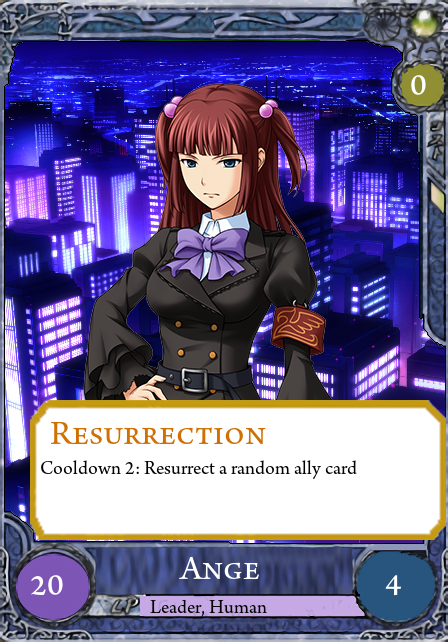
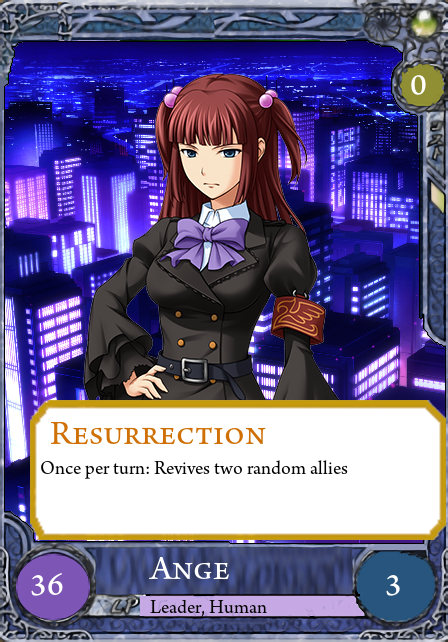
Ange finished

diff --git a/Assets/Scripts/CardEffects.cs b/Assets/Scripts/CardEffects.cs
@@ -3,7 +3,9 @@ using System.Collections;
 using System.Collections.Generic;
 using UnityEngine;
 using UnityEngine.UI;
+using System.Linq;
 using static Deck;
+using Random = System.Random;
 
 public class CardEffects
 {
@@ -170,7 +172,11 @@ public class CardEffects
 
     internal static bool LuciferEffect(Card c)
     {
-        List<CardObject> stakes = Game.INSTANCE.FindCardsInGameByTag(Deck.TagType.Stake);
+        List<CardObject> stakes = Game.INSTANCE.FindCardsInGameByTag(Deck.TagType.Stake, c.GetUsedByPlayer());
+        if(stakes.Count == 1)
+        {
+            return false;
+        }
         CardObject lucifer = c.GetTargetCardObject();
         Game.INSTANCE.AddCounter(lucifer, (stakes.Count-1)*2);
         return true;
@@ -207,6 +213,43 @@ public class CardEffects
     {
         Game.INSTANCE.CreateShield(c.GetTargetCardObject().GameObject);
         return true;
+    }
+
+    internal static bool AngeEffect(Card c)
+    {
+        GameObject graveyard = null;
+        if (c.GetUsedByPlayer())
+        {
+            graveyard = Game.INSTANCE.PlayerGraveyard;
+        }
+        else
+        {
+            graveyard = Game.INSTANCE.EnemyGraveyard;
+        }
+        if(graveyard.transform.childCount < 1)
+        {
+            return false;
+        }
+        GameObject freeSlot = Game.INSTANCE.FindFreeSlot(!c.GetUsedByPlayer());
+        if (freeSlot != null)
+        {
+            Game.INSTANCE.ResurrectRandomCard(graveyard, freeSlot);
+            if (graveyard.transform.childCount < 1)
+            {
+                return false;
+            }
+            GameObject freeSlot2 = Game.INSTANCE.FindFreeSlot(!c.GetUsedByPlayer());
+            if(freeSlot2 == null)
+            {
+                return false;
+            }
+            Game.INSTANCE.ResurrectRandomCard(graveyard, freeSlot2);
+            return true;
+        }
+        else
+        {
+            return false;
+        }
     }
 
     internal static bool GohdaEffect(Card arg)
@@ -268,14 +311,52 @@ public class CardEffects
         return true;
     }
 
-    internal static bool SakutarouEffect(Card arg)
+    internal static bool SakutarouEffect(Card c)
     {
-        throw new NotImplementedException();
+        GameObject field = null;
+        if (c.GetUsedByPlayer())
+        {
+            field = Game.INSTANCE.PlayerField;
+        }
+        else
+        {
+            field = Game.INSTANCE.EnemyField;
+        }
+        foreach (CardObject co in Game.INSTANCE.CardObjectsInGame)
+        {
+            if (co.card.Tags.Contains(TagType.Stake) && field.name == co.GameObject.transform.parent.parent.name)
+            {
+                Game.INSTANCE.AddCounter(co, 3);
+            }
+        }
+        return true;
     }
 
-    internal static bool MariaEffect(Card arg)
+    internal static bool MariaEffect(Card c)
     {
-        throw new NotImplementedException();
+        GameObject field = null;
+        if (c.GetUsedByPlayer())
+        {
+            field = Game.INSTANCE.PlayerField;
+        }
+        else
+        {
+            field = Game.INSTANCE.EnemyField;
+        }
+        CardObject sakutarouCO = null;
+        foreach(CardObject co in Game.INSTANCE.CardObjectsInGame)
+        {
+            if(co.card.ImageName == "Sakutarou" && field.name == co.GameObject.transform.parent.parent.name)
+            {
+                sakutarouCO = co;
+            }
+        }
+        if(sakutarouCO == null)
+        {
+            return false;
+        }
+        sakutarouCO.counters *= 2;
+        return true;
     }
 
     internal static bool DianaEffect(Card c)

diff --git a/Assets/Scripts/Game.cs b/Assets/Scripts/Game.cs
@@ -5,6 +5,7 @@ using System.Linq;
 using TMPro;
 using UnityEngine;
 using UnityEngine.UI;
+using Random = System.Random;
 
 public class Game : MonoBehaviour
 {
@@ -59,7 +60,7 @@ public class Game : MonoBehaviour
         EndTurnbtn.onClick.AddListener(OnEndTurn);
         UndoBtn.onClick.AddListener(Undo);
         EnemyLeader = enemyLeaderName;
-        PlayerLeader = "Lambda";
+        PlayerLeader = "Beatrice";
         PlayerDeck = CreateDeck(PlayerLeader);
         DecksInGame.Add(PlayerDeck);
         CardObject leaderCardObject = CreateCardInSlot(PlayerLeader, CardSlot21);
@@ -238,6 +239,31 @@ public class Game : MonoBehaviour
         GameObject.DestroyImmediate(shield);
     }
 
+    internal void ResurrectCard(GameObject resurrectedOne, GameObject freeSlot)
+    {
+        resurrectedOne.transform.SetParent(freeSlot.transform, false);
+        Image cardImage = resurrectedOne.GetComponent<Image>();
+        Card card = FindCard(cardImage.sprite.name);
+        CardObject resurrectedCO = new CardObject(resurrectedOne, card);
+        CardObjectsInGame.Add(resurrectedCO);
+        UpdateAllStatBoxes();
+        RecalculateCosts();
+    }
+
+    public void ResurrectRandomCard(GameObject graveyard, GameObject freeSlot)
+    {
+        List<GameObject> graveyardItems = new List<GameObject>();
+        for (int i = 0; i < graveyard.transform.childCount; i++)
+        {
+            GameObject child = graveyard.transform.GetChild(i).gameObject;
+            graveyardItems.Add(child);
+        }
+        Random rng = new Random();
+        graveyardItems.OrderBy(a => rng.Next());
+        GameObject resurrectedOne = graveyardItems[0];
+        Game.INSTANCE.ResurrectCard(resurrectedOne, freeSlot);
+    }
+
     public bool HasShield(GameObject go)
     {
         GameObject shield = null;
@@ -307,12 +333,21 @@ public class Game : MonoBehaviour
         Debug.Log("Get rekt m8");
     }
 
-    internal List<CardObject> FindCardsInGameByTag(Deck.TagType stake)
+    internal List<CardObject> FindCardsInGameByTag(Deck.TagType stake, bool playerCards)
     {
+        GameObject field = null;
+        if (playerCards)
+        {
+            field = PlayerField;
+        }
+        else
+        {
+            field = EnemyField;
+        }
         List<CardObject> ret = new List<CardObject>();
         foreach(CardObject co in CardObjectsInGame)
         {
-            if (co.card.Tags.Contains(stake))
+            if (co.card.Tags.Contains(stake) && co.GameObject.transform.parent.parent.name == field.name)
             {
                 ret.Add(co);
             }

diff --git a/Assets/Scripts/EffectListener.cs b/Assets/Scripts/EffectListener.cs
@@ -28,6 +28,7 @@ public class EffectListener
             {
                 c.InitializeEffectParametrs();
                 c.SetTargetCardObject(cardUsingEffect);
+                c.SetUsedByPlayer(co.GameObject.transform.parent.parent.name == Game.INSTANCE.PlayerField.name);
                 c.SetTargetCardTags(cardUsingEffect.card.Tags);
                 bool effectResult = c.Effect.Invoke(c);
                 if (!effectResult)
@@ -41,12 +42,18 @@ public class EffectListener
 
     public bool OnCardPlayed(CardObject cardPlayed)
     {
-        if (CardPlayedList.Contains(cardPlayed.card))
+        bool usedByPlayer = cardPlayed.GameObject.transform.parent.parent.name == Game.INSTANCE.PlayerField.name;
+        foreach (Card ca in CardPlayedList)
         {
-            Card c = cardPlayed.card;
-            c.InitializeEffectParametrs();
-            c.SetTargetCardObject(cardPlayed);
-            c.Effect.Invoke(c);
+            if(ca == cardPlayed.card && ((usedByPlayer && Game.INSTANCE.GameState != Game.State.EnemyTurn) || (!usedByPlayer && Game.INSTANCE.GameState == Game.State.EnemyTurn)))
+            {
+                Card c = cardPlayed.card;
+                c.InitializeEffectParametrs();
+                c.SetUsedByPlayer(usedByPlayer);
+                c.SetTargetCardObject(cardPlayed);
+                c.Effect.Invoke(c);
+            }
+            
         }
         return true;
     }
@@ -59,6 +66,7 @@ public class EffectListener
             foreach(CardObject cin in co)
             {
                 c.InitializeEffectParametrs();
+                c.SetUsedByPlayer(cin.GameObject.transform.parent.parent.name == Game.INSTANCE.PlayerField.name);
                 c.SetTargetCardObject(cin);
                 c.Effect.Invoke(c);
             }
@@ -72,6 +80,7 @@ public class EffectListener
         {
             Card c = destroyer.card;
             c.InitializeEffectParametrs();
+            c.SetUsedByPlayer(destroyer.GameObject.transform.parent.parent.name == Game.INSTANCE.PlayerField.name);
             c.SetTargetCardObject(destroyer);
             c.Effect.Invoke(c);
         }
@@ -86,6 +95,7 @@ public class EffectListener
             {
                 c.InitializeEffectParametrs();
                 CardObject co = Game.INSTANCE.FindCardObject(go);
+                c.SetUsedByPlayer(co.GameObject.transform.parent.parent.name == Game.INSTANCE.PlayerField.name);
                 c.SetTargetCardObject(co);
                 c.SetCounters(countersAdded);
                 c.Effect.Invoke(c);

diff --git a/Assets/Scripts/Deck.cs b/Assets/Scripts/Deck.cs
@@ -141,7 +141,7 @@ public class Deck
 
     public void Ange()
     {
-        this.leaderCard = new Card(0, 36, 3, CardEffects.BeatriceEffect, "Ange", new List<TagType> { TagType.Leader, TagType.Human }, false, false, 1);
+        this.leaderCard = new Card(0, 36, 3, CardEffects.AngeEffect, "Ange", new List<TagType> { TagType.Leader, TagType.Human }, false, false, 1);
         AddCardRegister(this.leaderCard, true);
         Card asmodeus = new Card(1, 4, 4, CardEffects.AsmodeusEffect, "Asmodeus", new List<TagType> { TagType.Summon, TagType.Stake }, false, true, 1, TagType.Summon, TargetType.Ally);
         AddCardRegister(asmodeus);
@@ -160,8 +160,10 @@ public class Deck
         AddCardRegister(lucifer);
         EffectListener.INSTANCE.CardPlayedList.Add(lucifer);
         Card Sakutarou = new Card(1, 5, 1, CardEffects.SakutarouEffect, "Sakutarou", new List<TagType> { TagType.Summon}, true, false, 0);
+        EffectListener.INSTANCE.TurnEndingList.Add(Sakutarou);
         AddCardRegister(Sakutarou);
         Card Maria = new Card(3, 4, 1, CardEffects.MariaEffect, "Maria", new List<TagType> { TagType.Human}, true, false, 0);
+        EffectListener.INSTANCE.TurnEndingList.Add(Maria);
         AddCardRegister(Maria);
     }
 

diff --git a/Assets/Scripts/AIFunctions.cs b/Assets/Scripts/AIFunctions.cs
@@ -295,7 +295,7 @@ public class AIFunctions : MonoBehaviour
                     else
                     {
                         TagType targetTag = co.card.TargetTag;
-                        CardObject target = GetCardInFieldByTag(targetTag);
+                        CardObject target = GetCardInFieldByTag(targetTag, co.card.TargetType);
                         if (target != null)
                         {
                             Game.INSTANCE.UseCardEffect(co, target);
@@ -404,11 +404,11 @@ public class AIFunctions : MonoBehaviour
         effectUser.SetTargetCardObject(bestTarget);
     }
 
-    private CardObject GetCardInFieldByTag(TagType targetTag)
+    private CardObject GetCardInFieldByTag(TagType targetTag, TargetType targetType)
     {
         foreach (CardObject co in Game.INSTANCE.CardObjectsInGame)
         {
-            if (co.card.Tags.Contains(targetTag) || targetTag == TagType.All)
+            if ((co.card.Tags.Contains(targetTag) || targetTag == TagType.All) && (TargetType.Both == targetType || co.GameObject.transform.parent.parent.name == Game.INSTANCE.EnemyField.name))
             {
                 return co;
             }
